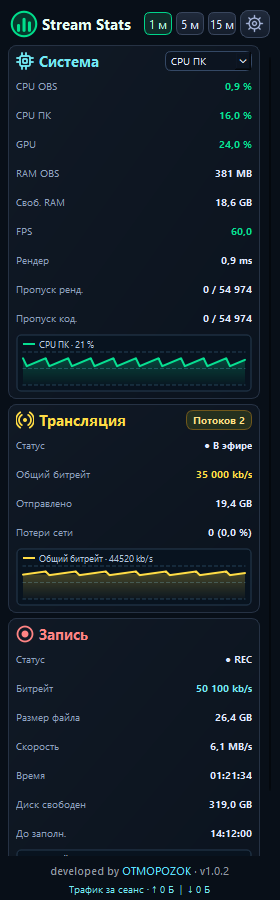
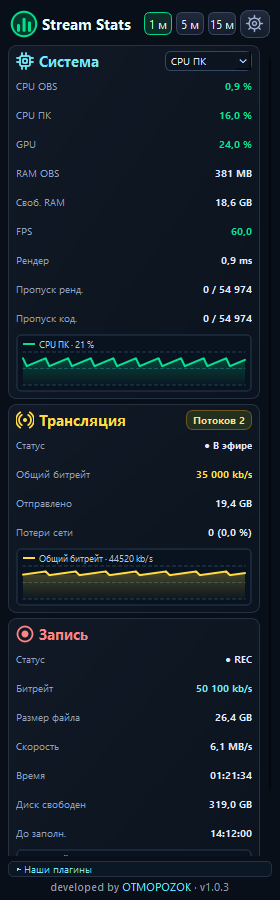
Explain Stream Stats and document plugin telemetry

Changed region(s): [[0.0857, 0.9644, 0.8286, 0.9956]]

diff --git a/README.md b/README.md
@@ -1,51 +1,30 @@
-# Stream Stats 1.0.3
+# Stream Stats
 
-Нативный Dock-плагин OBS Studio 33 для Windows x64. Показывает системную нагрузку,
-суммарную статистику трансляции и запись в одной панели. Интерфейс адаптируется
-к узкому Dock и к горизонтальному размеру стандартной панели статистики OBS.
+**Нагрузка компьютера, трансляция и запись в одной панели OBS.** Панель работает вертикально и горизонтально, в том числе в компактном размере стандартной статистики OBS.
 
-[Общий визуальный стиль трёх плагинов](docs/VISUAL_STYLE_RU.md).
-
-| Вертикальная панель | Горизонтальная панель |
+| Вертикально | Горизонтально |
 | --- | --- |
-| ![Stream Stats вертикально](docs/screenshots/vertical.png) | ![Stream Stats горизонтально](docs/screenshots/horizontal.png) |
+| ![Вертикальная панель](docs/screenshots/vertical.png) | ![Горизонтальная панель](docs/screenshots/horizontal.png) |
 
-*Снимки 1.0.2 созданы в тестовом окружении; значения нагрузки и потоков демонстрационные.*
-[Компактная горизонтальная панель](docs/screenshots/compact.png) помещается в размеры стандартной статистики OBS.
-[Узкая вертикальная панель](docs/screenshots/narrow.png).
+[Компактный вид](docs/screenshots/compact.png) · [Узкий вид](docs/screenshots/narrow.png) · [Наши плагины](docs/screenshots/plugins-expanded.png)
 
-Под основными блоками находится свёрнутая по умолчанию секция **«Наши плагины»**. После раскрытия она показывает трафик Stream Chat и Stream Notify за текущий запуск OBS, статус доступа к их локальным счётчикам и общую сумму. Секция не отправляет запросы в сеть и допускает добавление новых плагинов позднее.
+## Что показывает
 
-## Установка
+- **Система:** загрузка процессора и видеокарты, память OBS, FPS и пропущенные кадры.
+- **Трансляция:** число активных потоков, общий битрейт, объём отправки и сетевые потери.
+- **Запись:** скорость и размер записи, время работы и свободное место на диске.
+- **Наши плагины:** откройте свёрнутую секцию под основными блоками, чтобы увидеть трафик Stream Chat и Stream Notify, их связь со Stats и общую сумму за текущий запуск OBS. Это только трафик самих плагинов, без видеопотока. Пустых мест для будущих плагинов на экране нет; новые строки можно добавить позже.
 
-Закройте OBS и [скачайте архив последней успешной сборки](https://github.com/DIMI0007/stream-stats/actions/workflows/build-windows.yml). Удалите старую папку `stream-stats` из `C:\ProgramData\obs-studio\plugins\`, скопируйте туда папку из архива, затем запустите OBS и откройте панель **Stream Stats**. [Подробная инструкция](INSTALL_RU.md).
+Графики можно переключать между последними 1, 5 и 15 минутами. Панель обновляется раз в секунду и не отправляет сетевых запросов.
 
-## Показатели
+## Как установить
 
-- Система: CPU компьютера и процесса OBS, рабочий набор RAM OBS, свободная физическая RAM,
-  FPS, среднее время рендеринга кадра, пропуски рендера и кодирования. GPU показывает
-  загрузку самого занятого движка Windows GPU Engine, когда счётчик доступен.
-- Трансляция: статус локальных выходов OBS, количество отдельных активных выходов,
-  фактический суммарный битрейт по приросту отправленных байт, суммарный объём,
-  сетевые потери. Каждый `obs_output_t` учитывается один раз. Запись и replay buffer
-  исключены. Если активный выход похож на сетевой поток, но не даёт достаточно
-  данных для точного учёта, рядом с битрейтом появляется `≥`.
-- Запись: REC/PAUSED/OFFLINE, фактический битрейт, скорость, размер текущего файла,
-  время, свободное место на диске текущего файла и оценка времени до заполнения.
+1. Полностью закройте OBS. Скачайте **StreamStats-1.0.3-OBS33-Windows-x64** на странице [последней успешной сборки](https://github.com/DIMI0007/stream-stats/actions/workflows/build-windows.yml) и распакуйте ZIP.
+2. Откройте `C:\ProgramData\obs-studio\plugins\`. Удалите старую папку `stream-stats`, если она есть. Скопируйте сюда папку `stream-stats` из ZIP целиком.
+3. Запустите OBS и откройте **Док-панели → Stream Stats**.
 
-Графики хранят 15 минут измерений в памяти; общий переключатель показывает последние
-1, 5 или 15 минут. Снятие счётчиков и обновление интерфейса происходит раз в секунду.
-Состояние и положение Dock сохраняет OBS, видимость, язык и выбранный интервал — плагин.
-В блоке «Система» можно выбрать показатель графика: CPU ПК, CPU OBS, GPU или FPS.
-Показатели в узкой панели размещаются сеткой; число потоков находится в заголовке
-«Трансляция». Подсказка к нему показывает названия активных выходов OBS, если они доступны.
-Нижняя строка трафика относится к самому Stream Stats и остаётся нулевой, поскольку
-плагин не делает сетевых запросов; переданные видеоданные показаны в блоке трансляции.
+Файл `stream-stats.dll` должен лежать прямо в папке `stream-stats`. [Подробная инструкция](INSTALL_RU.md).
 
-**Ограничения:** локальное состояние OBS не подтверждает доступность эфира зрителям.
-Время записи начинается, когда Stream Stats впервые видит активную запись, и исключает паузы.
-Если точный текущий файл недоступен через настройки выхода OBS, его размер показывается
-со знаком `≈` как оценка по обработанным байтам. Прогноз диска доступен при известном
-каталоге записи и ненулевой скорости записи.
-Счётчик GPU может отсутствовать из-за драйвера или конфигурации Windows; тогда показывается `—`.
-Плагин не обращается к API стриминговых платформ и не отправляет анонсы.
+Для **OBS Studio 33 на Windows x64**. Сборка пока не подписана. Примеры на скриншотах созданы в тестовой среде; работа с реальными устройствами проверяется в OBS.
+
+[Общий стиль трёх плагинов](docs/VISUAL_STYLE_RU.md) · [Разработчик OTMOPOZOK](https://www.youtube.com/channel/UCTAKYR3T2Ud8zZgNShgQfyw/)
